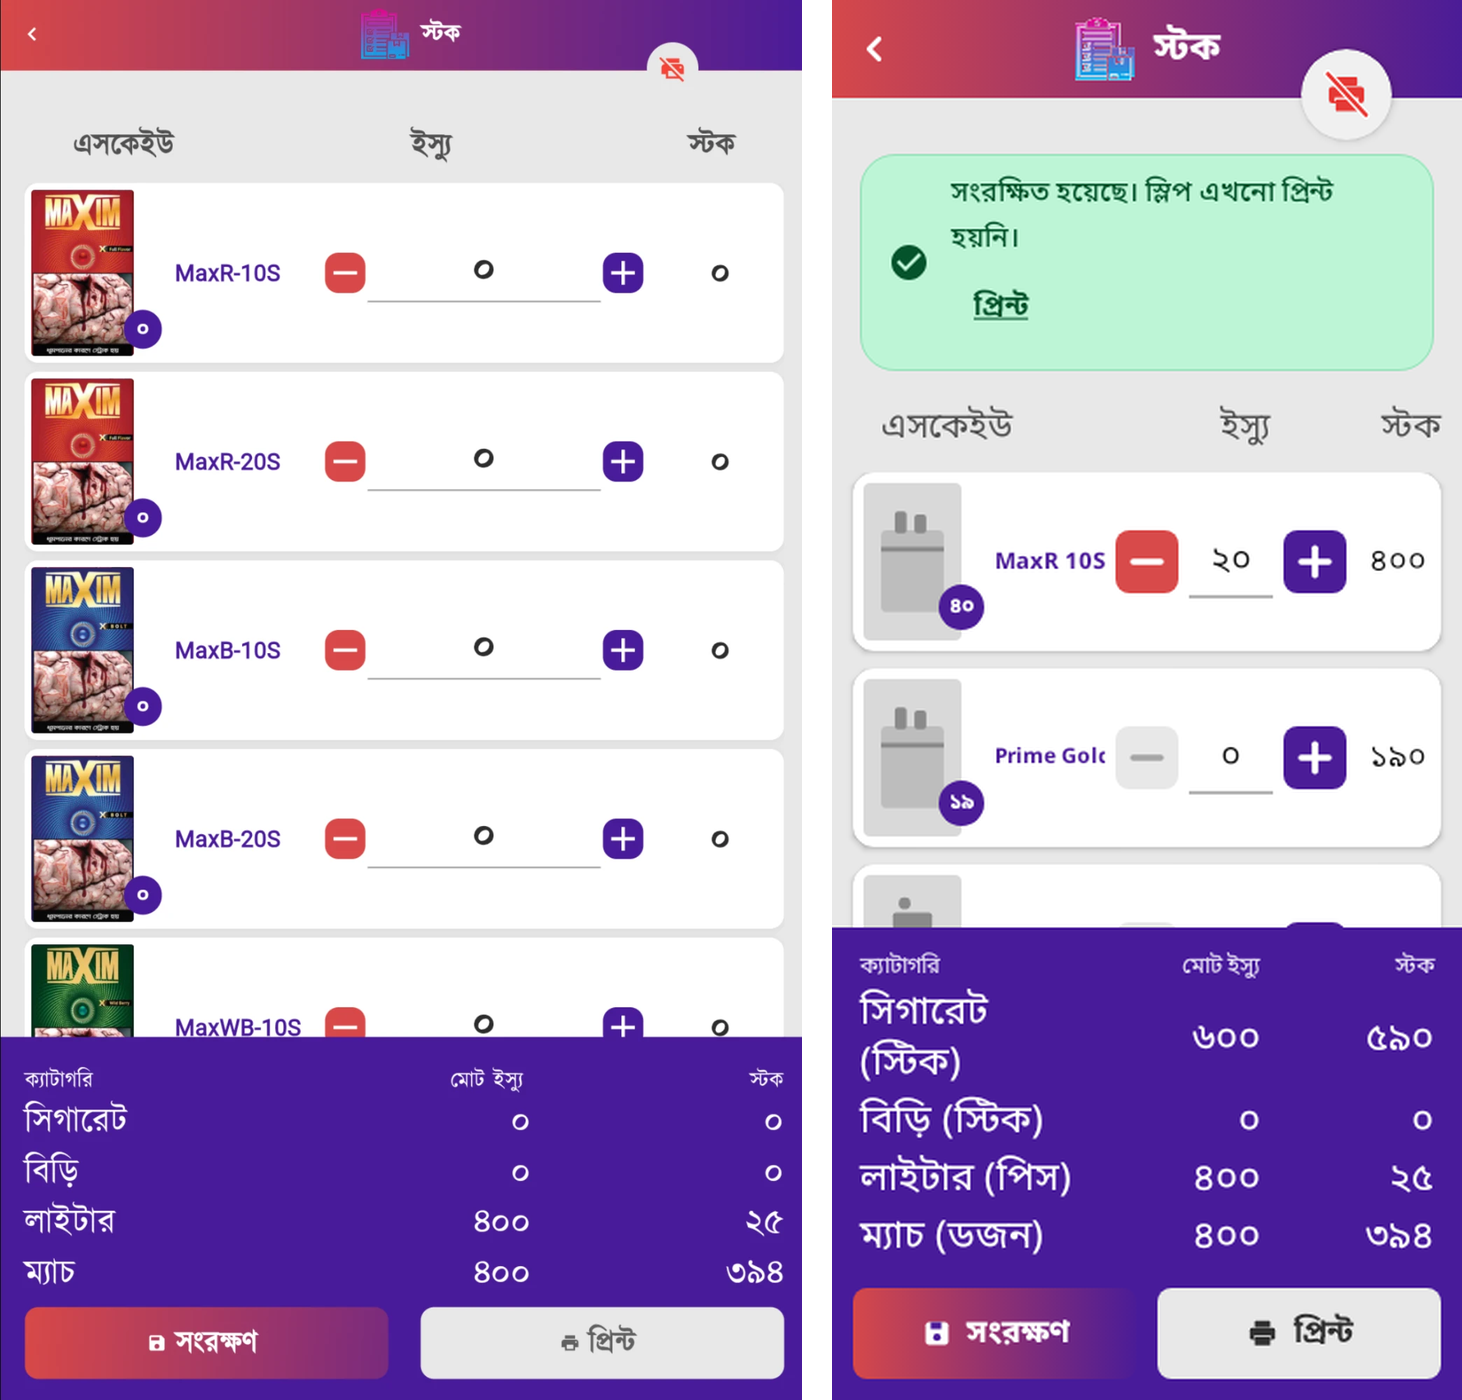
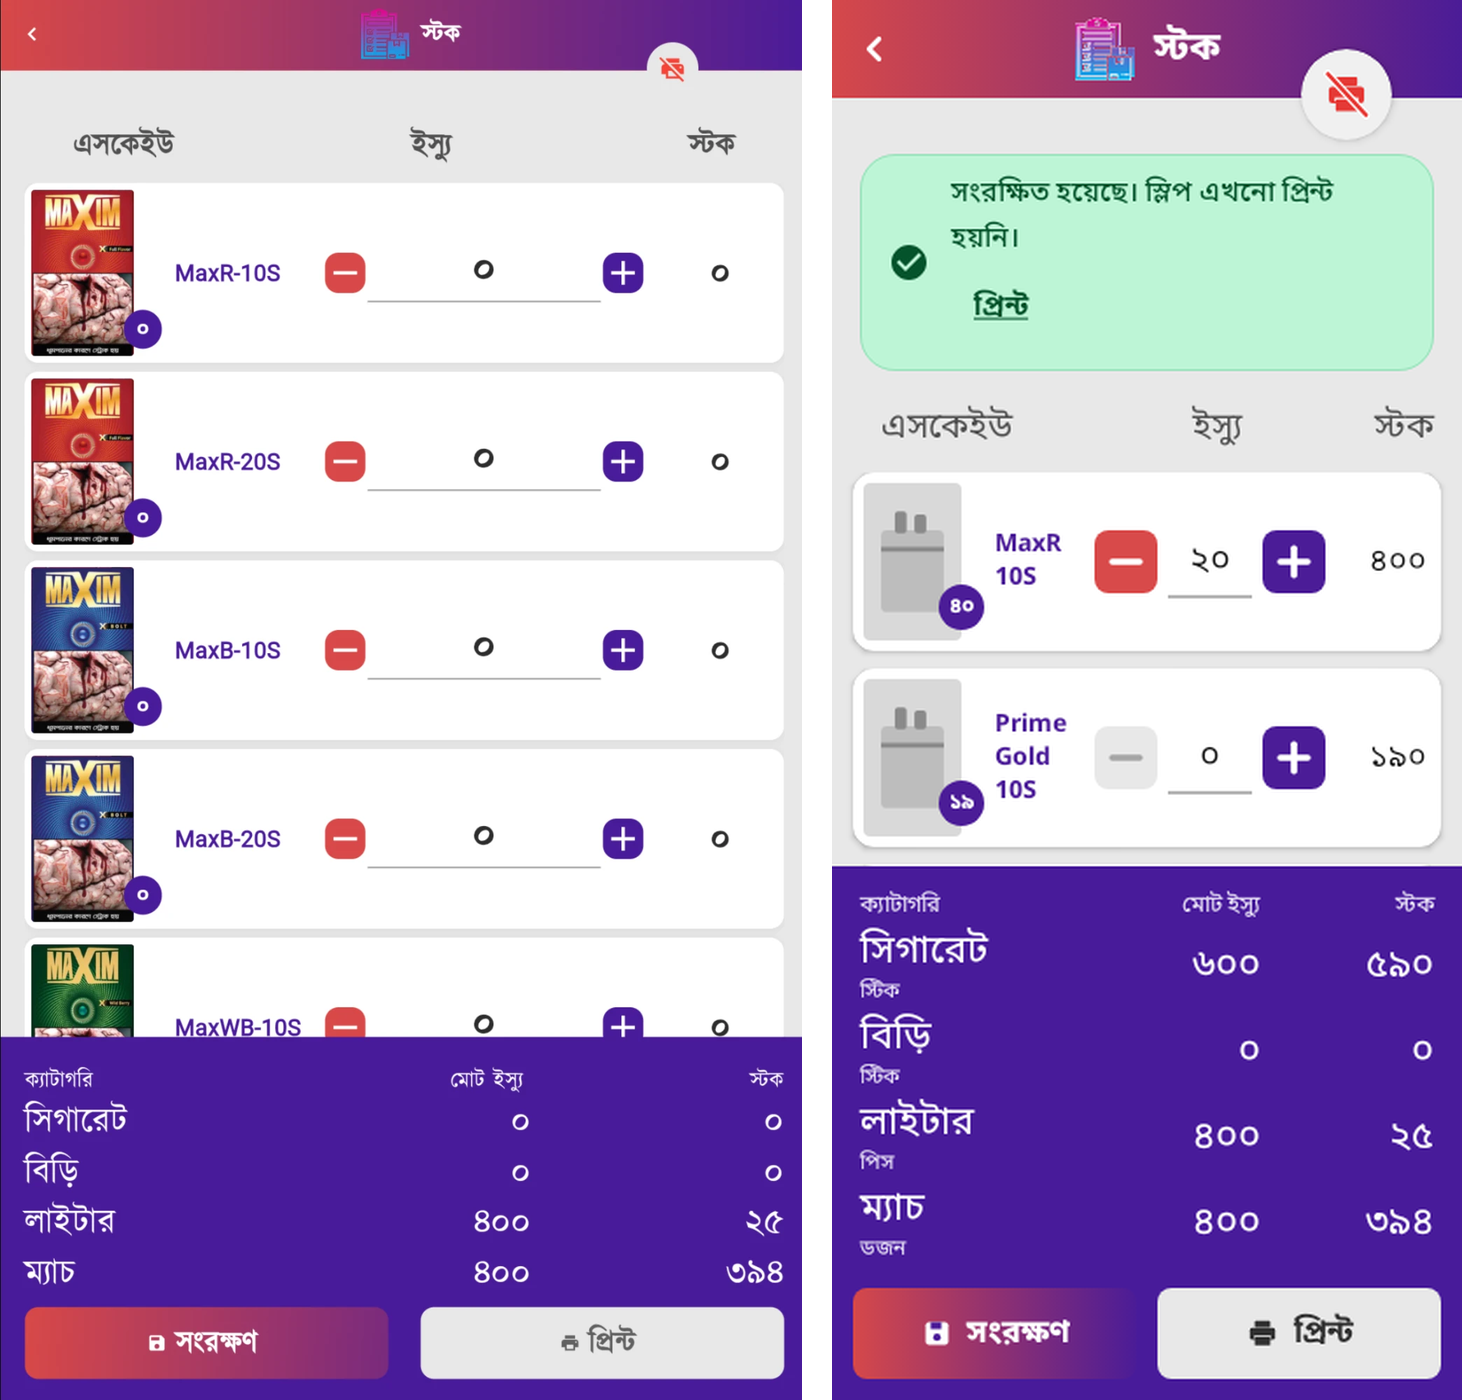
ui-sr-a: merge kit abac6ba (totals caption, SKU wrap, 52 dp stock column); Stock units as captions; goldens and evidence
Claude-Session: https://claude.ai/code/session_01Cd6RMH6UoLJmTmx3KUSQmH

diff --git a/android/feature-stock/src/test/kotlin/com/aktcl/aron/feature/stock/StockScreenTest.kt b/android/feature-stock/src/test/kotlin/com/aktcl/aron/feature/stock/StockScreenTest.kt
@@ -31,7 +31,7 @@ import org.robolectric.annotation.Config
 
 /** F-SR-014 screen: stepped Issue, loaded total, category totals 400 and 400, Save. */
 @RunWith(AndroidJUnit4::class)
-@Config(sdk = [36])
+@Config(sdk = [36], qualifiers = "w360dp-h800dp") // the field phone's design frame (screens-sr s0)
 class StockScreenTest {
     @get:Rule val compose = createComposeRule()
 
@@ -52,7 +52,9 @@ class StockScreenTest {
         // the reference panel: head "ক্যাটাগরি / মোট ইস্যু / মোট লোড", all four categories with their unit, zeros included
         compose.onNodeWithTag(StockTags.TOTALS).assertExists()
         compose.onNodeWithText("ক্যাটাগরি").assertExists(); compose.onNodeWithText("মোট ইস্যু").assertExists()
-        listOf("সিগারেট (স্টিক)", "বিড়ি (স্টিক)", "লাইটার (পিস)", "ম্যাচ (ডজন)").forEach { compose.onNodeWithText(it).assertExists() }
+        listOf("সিগারেট", "বিড়ি", "লাইটার", "ম্যাচ").forEach { compose.onNodeWithText(it).assertExists() }
+        // the unit is the caption under each category (two stick categories, one piece, one dozen)
+        compose.onAllNodesWithText("স্টিক").assertCountEquals(2); compose.onNodeWithText("পিস").assertExists(); compose.onNodeWithText("ডজন").assertExists()
         // the issued and stock figures of the two panel lines at least (a second pack card may sit below the fold of the test window)
         assertTrue(compose.onAllNodesWithText("৪০০").fetchSemanticsNodes().size >= 4)
     }

diff --git a/android/feature-stock/src/main/kotlin/com/aktcl/aron/feature/stock/StockScreen.kt b/android/feature-stock/src/main/kotlin/com/aktcl/aron/feature/stock/StockScreen.kt
@@ -77,7 +77,7 @@ private fun categoryRank(code: String): Int = when (code) { "cigarette" -> 0; "b
 /**
  * The Stock screen content (F-SR-014, sr/stock.webp): the column head (SKU, Issue, Stock), one kit [PackCard] per SKU (packshot with
  * the packs badge, SKU code, red minus, underlined Issue field, purple plus, the stock figure), the purple totals panel by category
- * (the unit in each category's label) and the Save and Print buttons. The host frame supplies the top bar and the printer badge.
+ * (the unit as a caption under each category) and the Save and Print buttons. The host frame supplies the top bar and the printer badge.
  * Save never waits for the printer or the network (Q-UI-03); Print is grey until a printer is connected and the slip is saved.
  */
 @Composable
@@ -221,7 +221,7 @@ private fun StockTotals(rows: List<StockRow>, totals: List<CategoryTotal>, hasSt
     val lines = cats.map { code ->
         val unit = unitLabel(rows.firstOrNull { it.sku.categoryCode == code }?.sku?.baseUnit ?: unitOf.getValue(code))
         val stock = rows.filter { it.sku.categoryCode == code }.sumOf { (it.stockBase ?: it.loadedBase) + it.entered }
-        TotalsLine(categoryLabel(code) + " (" + unit + ")", listOf(localizedNumber(issued[code] ?: 0L), localizedNumber(stock)))
+        TotalsLine(categoryLabel(code), listOf(localizedNumber(issued[code] ?: 0L), localizedNumber(stock)), caption = unit)
     }
     TotalsPanel(
         header = TotalsLine(
